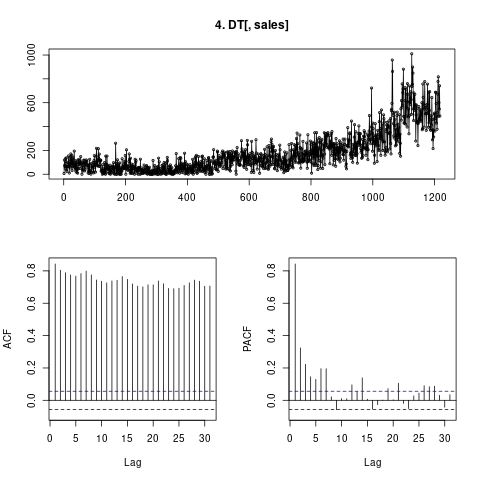
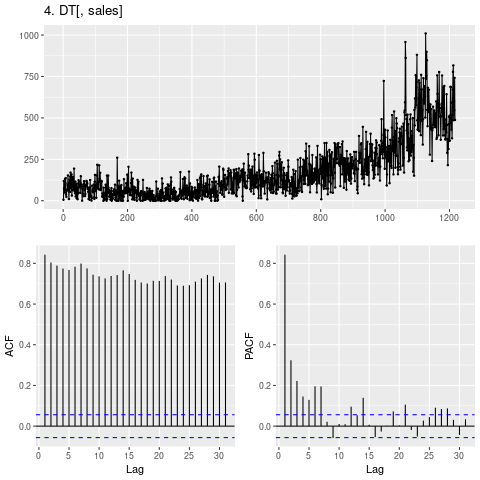
update

diff --git a/R_Forecasting_with_ARMAX/README.md b/R_Forecasting_with_ARMAX/README.md
@@ -1,5 +1,5 @@
 # Overview - under editing
-In this sample tutorial, I analyze a sales time-series for an online firm and I identify whether there is a permanent impact of given marketing campaigns on a sales time-series.
+In this sample tutorial, I analyze a sales time-series for an online firm and I identify whether there is a permanent impact of given marketing campaigns on the sales time-series.
 I also forecast the sales time-series for one month with and without an imminent marketing campaing using ARIMAX modelling. 
 Along with the sales time-series, we also have access to the web visits time-series and the dates of the marketing campaigns.
 
@@ -26,17 +26,17 @@ Along with the sales time-series, we also have access to the web visits time-ser
 # 1. R and Data preparation 
 ## 1.1. Required R packages
 For the analysis, start by installing the necessary packages.
-This step can be skipped if we have already installed the necessary packages.
+This step can be skipped if we have already installed them.
 
 
 ```r
-sapply(c('data.table', 'tsoutliers', 'colorout', 
+sapply(c('data.table', 'tsoutliers', 'colorout', 'ggplot2', 'imputeTS', 'pracma', 'strucchange', 'tseries', 'forecast'
      ), install.packages) # install packages
 ```
 
 Next, load them with:
 ```r
-sapply(c('data.table', 'tsoutliers', 'colorout'
+sapply(c('data.table', 'tsoutliers', 'colorout', 'ggplot2', 'imputeTS', 'pracma', 'strucchange', 'tseries', 'forecast'
      ), require, character.only = TRUE) # load packages
 ```
 
@@ -105,7 +105,7 @@ dev.off()
 
 ## 1.3. Data quality
 Let's see if we have any missing values; days with no data.
-Create a sequence of dates from the first till the last day of `DT` and compare the lengths of the original dataset to the sequence of dates we just created.
+Create a sequence of dates (`date.grid`) from the first till the last day of `DT` and compare the lengths of the original dataset to the sequence of dates we just created.
 ```r
 date.grid <- seq(as.Date(min(DT[, date])), as.Date(max(DT[, date])), by = 'day')
 length(date.grid)
@@ -116,7 +116,7 @@ nrow(DT)
 
 It seems we do have 17 missing values.
 Which are they? 
-R comes with set operation functions (?setdiff) and we can use a set difference to find them.
+R comes with set operation functions (check `?setdiff`) and we can use a set difference to find them.
 ```r
 setdiff(as.character(date.grid), as.character(DT$date))
 #  [1] "2014-03-01" "2014-05-07" "2014-05-24" "2014-08-09" "2014-08-13"
@@ -128,6 +128,7 @@ All in all, the 17 missing values are located in the first half of the the time 
 From the graph above, we observe noisy seasonality and complex series.
 Hence, we use a Kalman filter to impute the missing values (in simpler cases linear interpolation could also be fine).
 Note, that we proceed to such an interpolation because it does not change the outcome of the analysis! 
+Figure 2 shows the imputed values for the first 150 observations of the sales time-series
 
 ```r
 date.grid.DT <- data.table(date = c(date.grid))
@@ -157,24 +158,27 @@ Ideally, we'd like to have a large increase during and after the marketing campa
 Since there is an intervention variable (marketing campains) an ARIMAX model seems appropriate. 
 Other exogenous variables like the web visits time series can enter the ARIMAX, too.
 
-The following Figure shows that the `sales` seem to follow: 
- * a parallel movement in 2014-early:2015, 
+Figure 1, above, shows that the `sales` seem to follow: 
+ * a parallel movement in 2014--early:2015, 
  * a slightly upward trend during early:2015–early:2016, and 
  * a more vigorous upward trend since mid:2016 with some indication of a potential parallel movement after early:2017. 
  
-This suggest that a regime-switching model could also be appropriate for such data. 
+The aforementioned movements/trends suggest that a regime-switching model could also be appropriate for such data. 
 We don’t see linear, but a polynomial, trend for the whole time-series, which is common for sales data. 
 We also see structural breaks (at least in level and variance) which influences the unit root tests and need further exploration. 
 In the next sections:
 
 * we create a nice figure for the time-series
-* we explore some statistical characteristics (autocorrelation structure, breaks, stationarity, outliers)
+* we explore some statistical characteristics (autocorrelation structure, breaks, stationarity, outliers).
 I follow [Bai and Perron (2003)](http://onlinelibrary.wiley.com/doi/10.1002/jae.659/abstract) and the BIC criterion suggests 3 breaks (four would not make a large difference, though) for the whole sales time-series.
+* we choose the appropriate ARIMAX model
+* we proceed to the forecasts
 
 ## 2.2. Graph with outliers and smoothing curves
 Let's create a beautiful graph for the data!
 
-First, we detect the outliers using the Hampel filter.
+First, we detect the outliers, *in terms of data quality*, using an uncalibrated Hampel filter.
+For more information on the Hampel filter, please consult [Pearson, Neuvo, Astola and Gabbouj (2016)](https://asp-eurasipjournals.springeropen.com/articles/10.1186/s13634-016-0383-6).
 ```r
 outliers.sales <- DT[, sales]
 plot(outliers.sales, type = 'l')
@@ -186,11 +190,12 @@ outliers.NAs[omad$ind] <- DT[, sales][omad$ind]
 ```
 
 If we are further interested in the outliers, we should proceed to parameter calibration for the Hampel filter, but for this tutorial analysis it is not necessary.
-Ideally, we forecast with and without the outliers, calibrate their corrections and identify whether they are indeed outliers or indicate a response to an event (which seems plausible for the 3 outliers during the marketing campaigns). 
+Ideally, we forecast with and without the outliers, calibrate their corrections and identify whether they are indeed outliers or indicate a response to an event. 
+The last, seems plausible for the outliers during the marketing campaigns. 
 Please refer to [Tsay (1988)](http://onlinelibrary.wiley.com/doi/10.1002/for.3980070102/abstract) and [Watson (2001)](http://eprints.whiterose.ac.uk/2209/1/ITS261_WP362_uploadable.pdf) for various outlier types (additive/level shifts/etc.) and techniques for their correction as a starting point. 
 For example, at a more advanced stage, we could use a non-linear moving window and parameter calibration.
 
-The following figure, also includes three smoothing functions with different coarseness, following a LOESS fitted curve with correspondingly different parameters.
+The following Figure 3, also includes three smoothing functions with different coarseness, following a LOESS fitted curve with correspondingly different parameters.
 
 ```r
 campaign.dates <- data.frame(campaign.start =  c(as.Date('2016-01-23'),
@@ -227,7 +232,7 @@ I start with correlation analysis.
 
 ```r
 png(file = 'figures/04-ACF-and-PACF-of-sales.png')
-tsdisplay(DT[, sales], main = "4. DT[, sales]")
+ggtsdisplay(DT[, sales], main = "4. DT[, sales]")
 dev.off()
 ```
 ![ACF and PACF graph](figures/04-ACF-and-PACF-of-sales.png)
@@ -252,12 +257,14 @@ Because there are breaks and the analysis concerns a simple tutorial, I do not p
 Ideally, we do not want mean, variance, autocorrelation and relationship breaks for the time-series for sound inference. 
 [Hansen (2012)](https://www.ssc.wisc.edu/~bhansen/crete/crete5.pdf) says there is no good theory for forecasting for series with breaks and [Perron (2017)](http://www.mdpi.com/2225-1146/5/2/22/pdf) presents recent papers which deal with structural changes and stationarity. 
 According to [Pesaran and Timmermann (2007)](https://www.sciencedirect.com/science00/article/pii/S0304407606000418), in not an identical case, however, the optimal window for starts a bit before the last break. 
-Bai and Perron (2003) method indicates considering three breaks as optimal. 
-Even in non optimal cases with 2, 4 or 5 breaks the last break is on 2016-10-30. Hence, I consider 2016-09-01 as the start of my estimation window. 
-For further exploration, Pesaran and Timmermann propose a calculation for the ideal estimation windows which I skip as it does not seem so critical for the purpose of this analysis.
-Another possibility would be to consider outlier events, like level shifts, but there is no need for extensive intervention analysis throughout the series for this analysis.
+Bai and Perron (2003) method indicates  three breaks as optimal. 
+Even in non-optimal cases with 2, 4 or 5 breaks the last break is on 2016-10-30. Hence, I consider 2016-09-01 as the start of my estimation window. 
+For further exploration, Pesaran and Timmermann propose a calculation for the ideal estimation windows which I skip as it does not seem so critical for the purposes of this tutorial analysis.
+Another possibility would be to consider outlier events, like level shifts.
+There is no need for extensive intervention analysis throughout the series for this analysis, but I briefly indicate how the `tsoutliers` helps us improve the ARIMAX model.
+For more information on `tsoutliers`, please consult its documentison  in [L\'opez-de-Lacalle (2016)](https://jalobe.com/doc/tsoutliers.pdf).
 
-For this simple tutorial analysis, to locate the breaks we work with the `tsoutliers` package in R.
+For this simple tutorial analysis, to locate the breaks we work with the `strucchange` package in R.
 ```r
 my.ts.DT <- DT[, .(date, sales, webvisits)] 
 day.of.year <- as.numeric(format(my.ts.DT[, date][1], '%j'))
